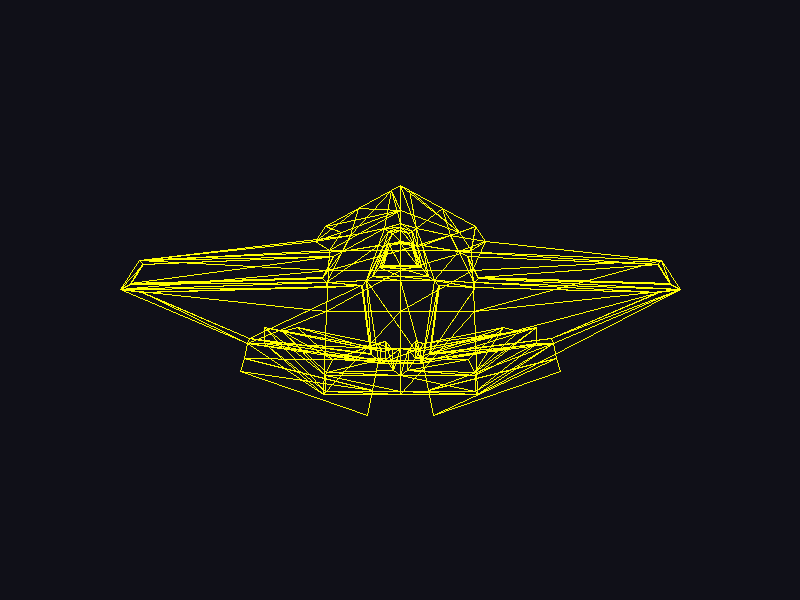
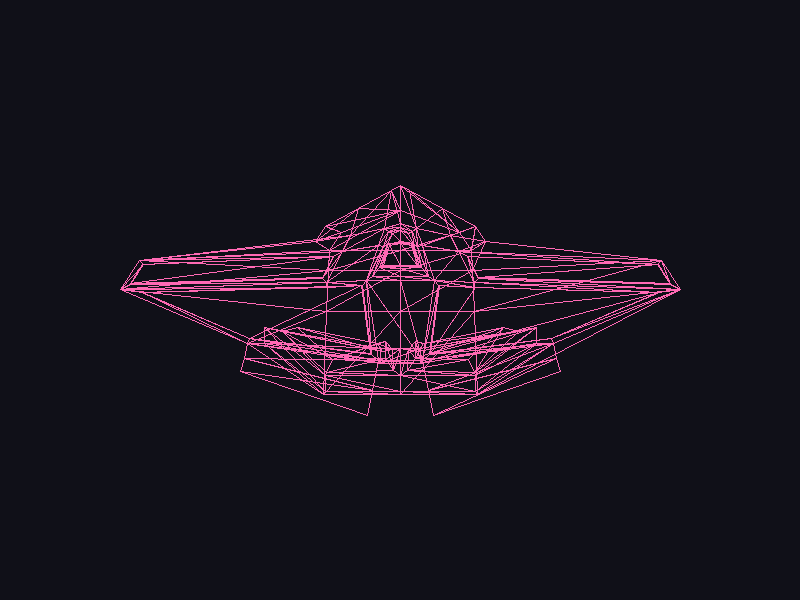
fix

Changed region(s): [[0.1562, 0.3, 0.8438, 0.69]]

diff --git a/src/main.rs b/src/main.rs
@@ -69,7 +69,7 @@ fn main() {
     let mut saved = false;
     while window.is_open() && !window.is_key_down(Key::Escape) {
         fb.clear();
-        fb.set_current_color(0xFFFF00); // pueden cambiar los colores
+        fb.set_current_color(0xFF69B4); // pueden cambiar los colores
         render(&mut fb, &obj, &verts);
 
         if !saved {
